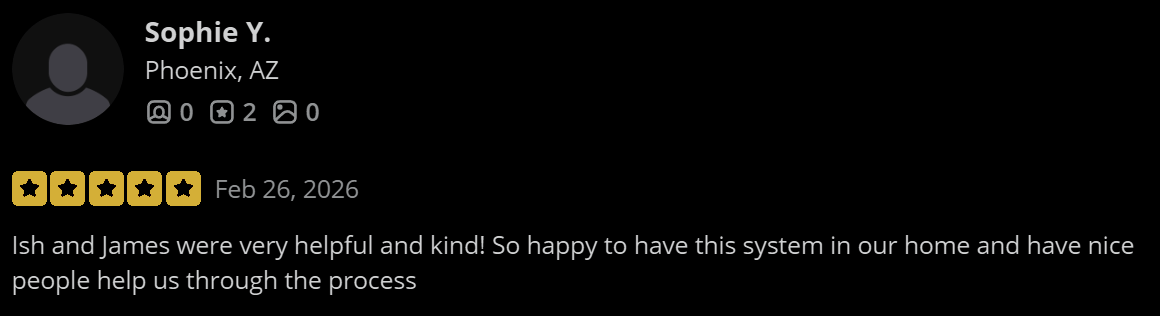
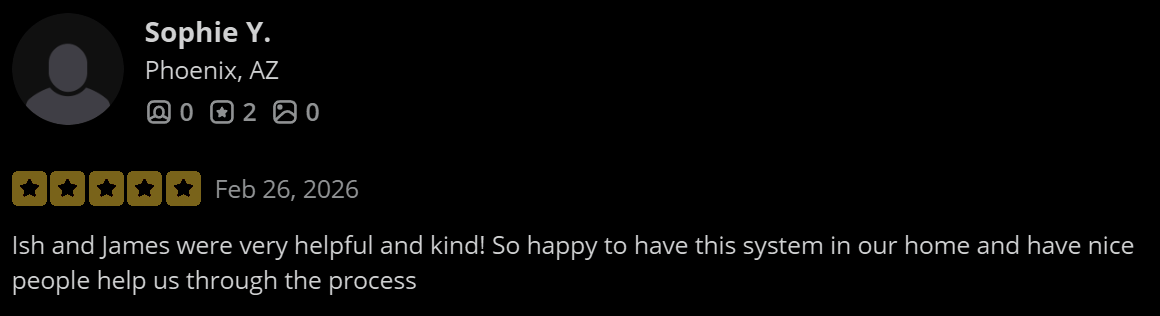
style: shift gold palette to #79631a, lock review images non-interactive
Locking in the darker gold that Firefox auto-dark renders as the
natural palette color across pill, limited-availability badge,
Hero stars, and testimonial PNGs. Adds explicit color-scheme meta
to discourage further browser auto-darkening. Removes the
new-window behavior on testimonial review images.

Changed region(s): [[0.0, 0.5411, 0.1862, 0.6551]]

diff --git a/artifacts/pure-gentle-landing/src/components/landing/Testimonials.tsx b/artifacts/pure-gentle-landing/src/components/landing/Testimonials.tsx
@@ -34,11 +34,8 @@ export function Testimonials() {
 
         <div className="grid gap-8 max-w-4xl mx-auto">
           {reviews.map((review, i) => (
-            <motion.a
+            <motion.div
               key={i}
-              href={review.image}
-              target="_blank"
-              rel="noreferrer"
               initial={{ opacity: 0, y: 20 }}
               whileInView={{ opacity: 1, y: 0 }}
               viewport={{ once: true, margin: "-60px" }}
@@ -50,7 +47,7 @@ export function Testimonials() {
                 alt={review.alt}
                 className="w-full rounded-xl border border-white/10 object-contain bg-black max-h-[560px]"
               />
-            </motion.a>
+            </motion.div>
           ))}
         </div>
       </div>

diff --git a/artifacts/pure-gentle-landing/src/components/landing/SiteHeader.tsx b/artifacts/pure-gentle-landing/src/components/landing/SiteHeader.tsx
@@ -33,7 +33,7 @@ export function SiteHeader() {
           </button>
           <button
             onClick={() => document.getElementById("schedule")?.scrollIntoView({ behavior: "smooth" })}
-            className="inline-flex items-center gap-1.5 text-sm font-bold px-4 sm:px-5 py-2 rounded-full bg-[#d4af37] text-slate-950 hover:bg-[#e8c652] transition-colors shadow-sm shadow-[#d4af37]/40"
+            className="inline-flex items-center gap-1.5 text-sm font-bold px-4 sm:px-5 py-2 rounded-full bg-[#79631a] text-slate-950 hover:bg-[#e8c652] transition-colors shadow-sm shadow-[#79631a]/40"
           >
             <Gift className="w-3.5 h-3.5" />
             <span className="hidden sm:inline">Free Water Test + $25</span>

diff --git a/artifacts/pure-gentle-landing/src/components/landing/CTA.tsx b/artifacts/pure-gentle-landing/src/components/landing/CTA.tsx
@@ -72,7 +72,7 @@ export function CTA() {
         <div className="max-w-5xl mx-auto grid lg:grid-cols-2 gap-14 items-center">
 
           <div className="text-white">
-            <div className="inline-flex items-center gap-2 px-3 py-1.5 rounded-full bg-[#d4af37]/15 border border-[#d4af37]/40 text-[#e8c652] text-sm font-semibold mb-5">
+            <div className="inline-flex items-center gap-2 px-3 py-1.5 rounded-full bg-[#79631a]/15 border border-[#79631a]/40 text-[#e8c652] text-sm font-semibold mb-5">
               <Gift className="w-4 h-4" />
               Limited availability — $25 gift card included
             </div>

diff --git a/artifacts/pure-gentle-landing/src/components/landing/Hero.tsx b/artifacts/pure-gentle-landing/src/components/landing/Hero.tsx
@@ -59,7 +59,7 @@ export function Hero() {
             <div className="flex items-start gap-3 mb-6 max-w-xl">
               <div className="flex gap-0.5 shrink-0 mt-0.5">
                 {[1, 2, 3, 4, 5].map((s) => (
-                  <Star key={s} className="w-3.5 h-3.5 fill-[#d4af37] text-[#d4af37]" />
+                  <Star key={s} className="w-3.5 h-3.5 fill-[#79631a] text-[#79631a]" />
                 ))}
               </div>
               <p className="text-sm text-slate-300 leading-snug">

diff --git a/artifacts/pure-gentle-landing/index.html b/artifacts/pure-gentle-landing/index.html
@@ -1,6 +1,7 @@
 <!DOCTYPE html>
 <html lang="en">
   <head>
+    <meta name="color-scheme" content="dark">
     <meta charset="UTF-8" />
     <meta name="viewport" content="width=device-width, initial-scale=1.0, maximum-scale=1" />
     <title>Free Water Test + $25 Gift Card | Hyperion Elite Systems</title>
